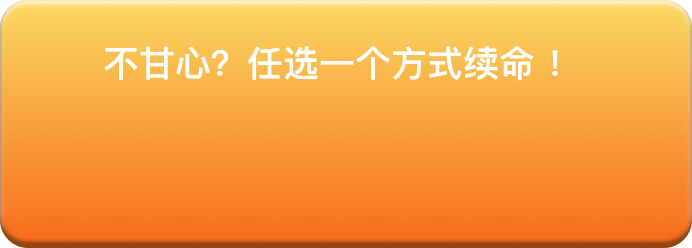
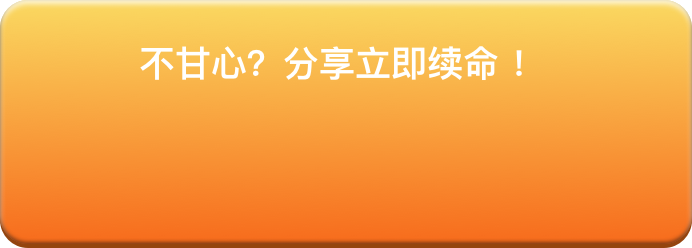
完善预得分 combo图等

Changed region(s): [[0.1517, 0.1694, 0.8194, 0.3387]]

diff --git a/js/pages/gamePage/map.js b/js/pages/gamePage/map.js
@@ -5,11 +5,36 @@ import { ajax } from '../../base/ajax'
 
 
 let databus = new DataBus()
+let uiWidth = 828;
+let ratio = canvas.width / uiWidth //设计稿宽度
 
 //棋盘的宽数和列数
 let rn = databus.rowNum
 let cn = databus.colNum
 
+let R = {
+  "combo": "images/gamePage/combo/combo.png",
+  "combo2": "images/gamePage/combo/combo2.png",
+  "combo3": "images/gamePage/combo/combo3.png",
+  "comboNum0": "images/gamePage/combo/0.png",
+  "comboNum1": "images/gamePage/combo/1.png",
+  "comboNum2": "images/gamePage/combo/2.png",
+  "comboNum3": "images/gamePage/combo/3.png",
+  "comboNum4": "images/gamePage/combo/4.png",
+  "comboNum5": "images/gamePage/combo/5.png",
+  "comboNum6": "images/gamePage/combo/6.png",
+  "comboNum7": "images/gamePage/combo/7.png",
+  "comboNum8": "images/gamePage/combo/8.png",
+  "comboNum9": "images/gamePage/combo/9.png",
+}
+
+//把所有的图片放到一个对象中
+let Robj = {};	//两个对象有相同的k
+// 遍历R对象，把真实image对象，放入this.Robj中
+for (var k in R) {
+  Robj[k] = wx.createImage();
+  Robj[k].src = R[k];
+}
 /**
  * 游戏页
  */
@@ -288,7 +313,7 @@ export default class Map {
   showScore(){
     if (this.gsl.length <= 0) return;
     for (var i = 0; i < this.gsl.length; i++) {
-      if (this.gsl[i].t < 20) {
+      if (this.gsl[i].t < 40) {
         //显示分数
         this.ctx.textAlign = 'left';
         this.ctx.fillStyle = '#fff';
@@ -305,12 +330,15 @@ export default class Map {
   showCombo() {
     if (this.gcl.length <= 0) return;
     for (var i = 0; i < this.gcl.length; i++) {
-      if (this.gcl[i].t < 20) {
+      if (this.gcl[i].t < 40) {
         //显示Combo
-        this.ctx.textAlign = 'left';
-        this.ctx.fillStyle = '#fff';
-        this.ctx.font = 'bold 20px Arial';
-        this.ctx.fillText('combo ' + this.gcl[i].combo, databus.getPointCenter(this.gcl[i].rc).x, databus.getPointCenter(this.gcl[i].rc).y);
+        // this.ctx.textAlign = 'left';
+        // this.ctx.fillStyle = '#fff';
+        // this.ctx.font = 'bold 20px Arial';
+        // this.ctx.fillText('combo ' + this.gcl[i].combo, databus.getPointCenter(this.gcl[i].rc).x, databus.getPointCenter(this.gcl[i].rc).y);
+
+        this.ctx.drawImage(Robj["combo"], 0, 0, Robj["combo"].width, Robj["combo"].height, databus.getPointCenter(this.gcl[i].rc).x, databus.getPointCenter(this.gcl[i].rc).y, 200 * ratio, 54 * ratio);
+
         this.gcl[i].t++
       } else {
         this.gcl.splice(i, 1)

diff --git a/js/pages/gamePage/index.js b/js/pages/gamePage/index.js
@@ -47,6 +47,7 @@ let shc = databus.GameUI.shareCoordinates //游戏结束分享
 let lvc = databus.GameUI.lookVideoCoordinates //游戏结束看视频
 let ic = databus.GameUI.indexCoordinates //游戏结束首页
 let tac = databus.GameUI.tryAgainCoordinates //游戏结束再来一局
+let psec = databus.GameUI.preScoreCoordinates //游戏结束再来一局
 
 //游戏页主函数
 export default class Index {
@@ -202,7 +203,7 @@ export default class Index {
     // ctx.drawImage(this.Robj["toolPrice"], 0, 0, this.Robj["toolPrice"].width, this.Robj["toolPrice"].height, ctpbc.x, ctpbc.y, ctpbc.w, ctpbc.h);
     if (databus.doubleHit > 0){
       databus.doubleHitTime++
-      if (databus.doubleHitTime > 10){
+      if (databus.doubleHitTime > 20){
         databus.doubleHit = 0
         databus.doubleHitTime = 0
         return
@@ -253,9 +254,16 @@ export default class Index {
     ctx.font = cnc.font;
     ctx.fillText(databus.usergold, cnc.x, cnc.y);
     //当前分数
-    ctx.fillStyle = '#ffd35f';
+    ctx.fillStyle = '#7fdc19';
     ctx.font = csc.font;
     ctx.fillText(databus.score, csc.x, csc.y);
+    if (databus.preScoreEnd) {
+      //预得分数
+      ctx.fillStyle = '#ffde44';
+      ctx.textAlign = 'left';
+      ctx.font = psec.font;
+      ctx.fillText('+' + databus.preScoreEnd, (uiWidth / 2 + 20 + 15 * (databus.score + '').split('').length) * ratio , psec.y);
+    }
 
     //当前过关分数
     ctx.fillStyle = '#fff';
@@ -492,8 +500,8 @@ export default class Index {
 
       // 分享事件
       if (x >= shc.x && x <= shc.x + shc.w && y >= shc.y && y <= shc.y + shc.h) {
-        wx.shareAppMessage({'title':'莉莉最可爱'})
-        this.continueGame(2, 6)
+        wx.shareAppMessage({ 'title': databus.shareConfig.info, 'imageUrl': databus.shareConfig.url})
+        this.continueGame(2, 3)
         //按钮按下音效
         this.music.playMusic('btnDown')
       }

diff --git a/js/databus.js b/js/databus.js
@@ -116,6 +116,7 @@ export default class DataBus {
     this.musicSound = true //音效默认开
     this.musicBgState = true //背景音状态
     this.musicSoundState = true //音效默状态
+    this.shareConfig = {} //分享配置
     //游戏页的UI值（比如：宽高，边距）
     this.GameUI = {
       boardToTOP: 334 * ratio, //棋盘到顶部的距离
@@ -335,7 +336,12 @@ export default class DataBus {
         x: (uiWidth / 2) * ratio,
         y: 660 * ratio,
         font: 'bold ' + 55 * ratio + 'px Arial'
-      }
+      },
+      preScoreCoordinates: { //预得分
+        x: (uiWidth / 2 + 40) * ratio,
+        y: 245 * ratio,
+        font: 'bold ' + 40 * ratio + 'px Arial'
+      },
     }
     //棋盘宽高
     this.GameUI.boardWH = canvas.width - 2 * this.GameUI.boardToLR
@@ -408,7 +414,7 @@ export default class DataBus {
     this.checkPoint = 1 //当前关卡  默认为1
     this.passScore = 0 //当前关卡过关分数
     this.gameId = '' //本轮游戏id
-    this.steps = 20 //总步步数
+    this.steps = 2 //总步步数
     this.useSteps = 0 //使用步数
     this.rewardstep = 0 //过关奖励步数
     this.piecesType = 4 //棋子种类

diff --git a/js/main.js b/js/main.js
@@ -4,6 +4,7 @@ import FriendsRank from './pages/friendsRank/index'
 import WorldRank from './pages/worldRank/index'
 import DataBus from './databus'
 import Music from './music/music'
+import { ajax } from '/base/ajax'
 
 import DataStore from '/base/helper';
 let ctx = canvas.getContext('2d')
@@ -51,6 +52,18 @@ export default class Main {
         }
       }
     })
+
+    //分享文案
+
+    let options = {
+      tradecode: 'sys05',
+      apiType: 'user',
+      method: 'POST',
+      success(data) {
+        databus.shareConfig = data.body.share;
+      }
+    }
+    ajax(options)
   }
 
   renderPage() {
